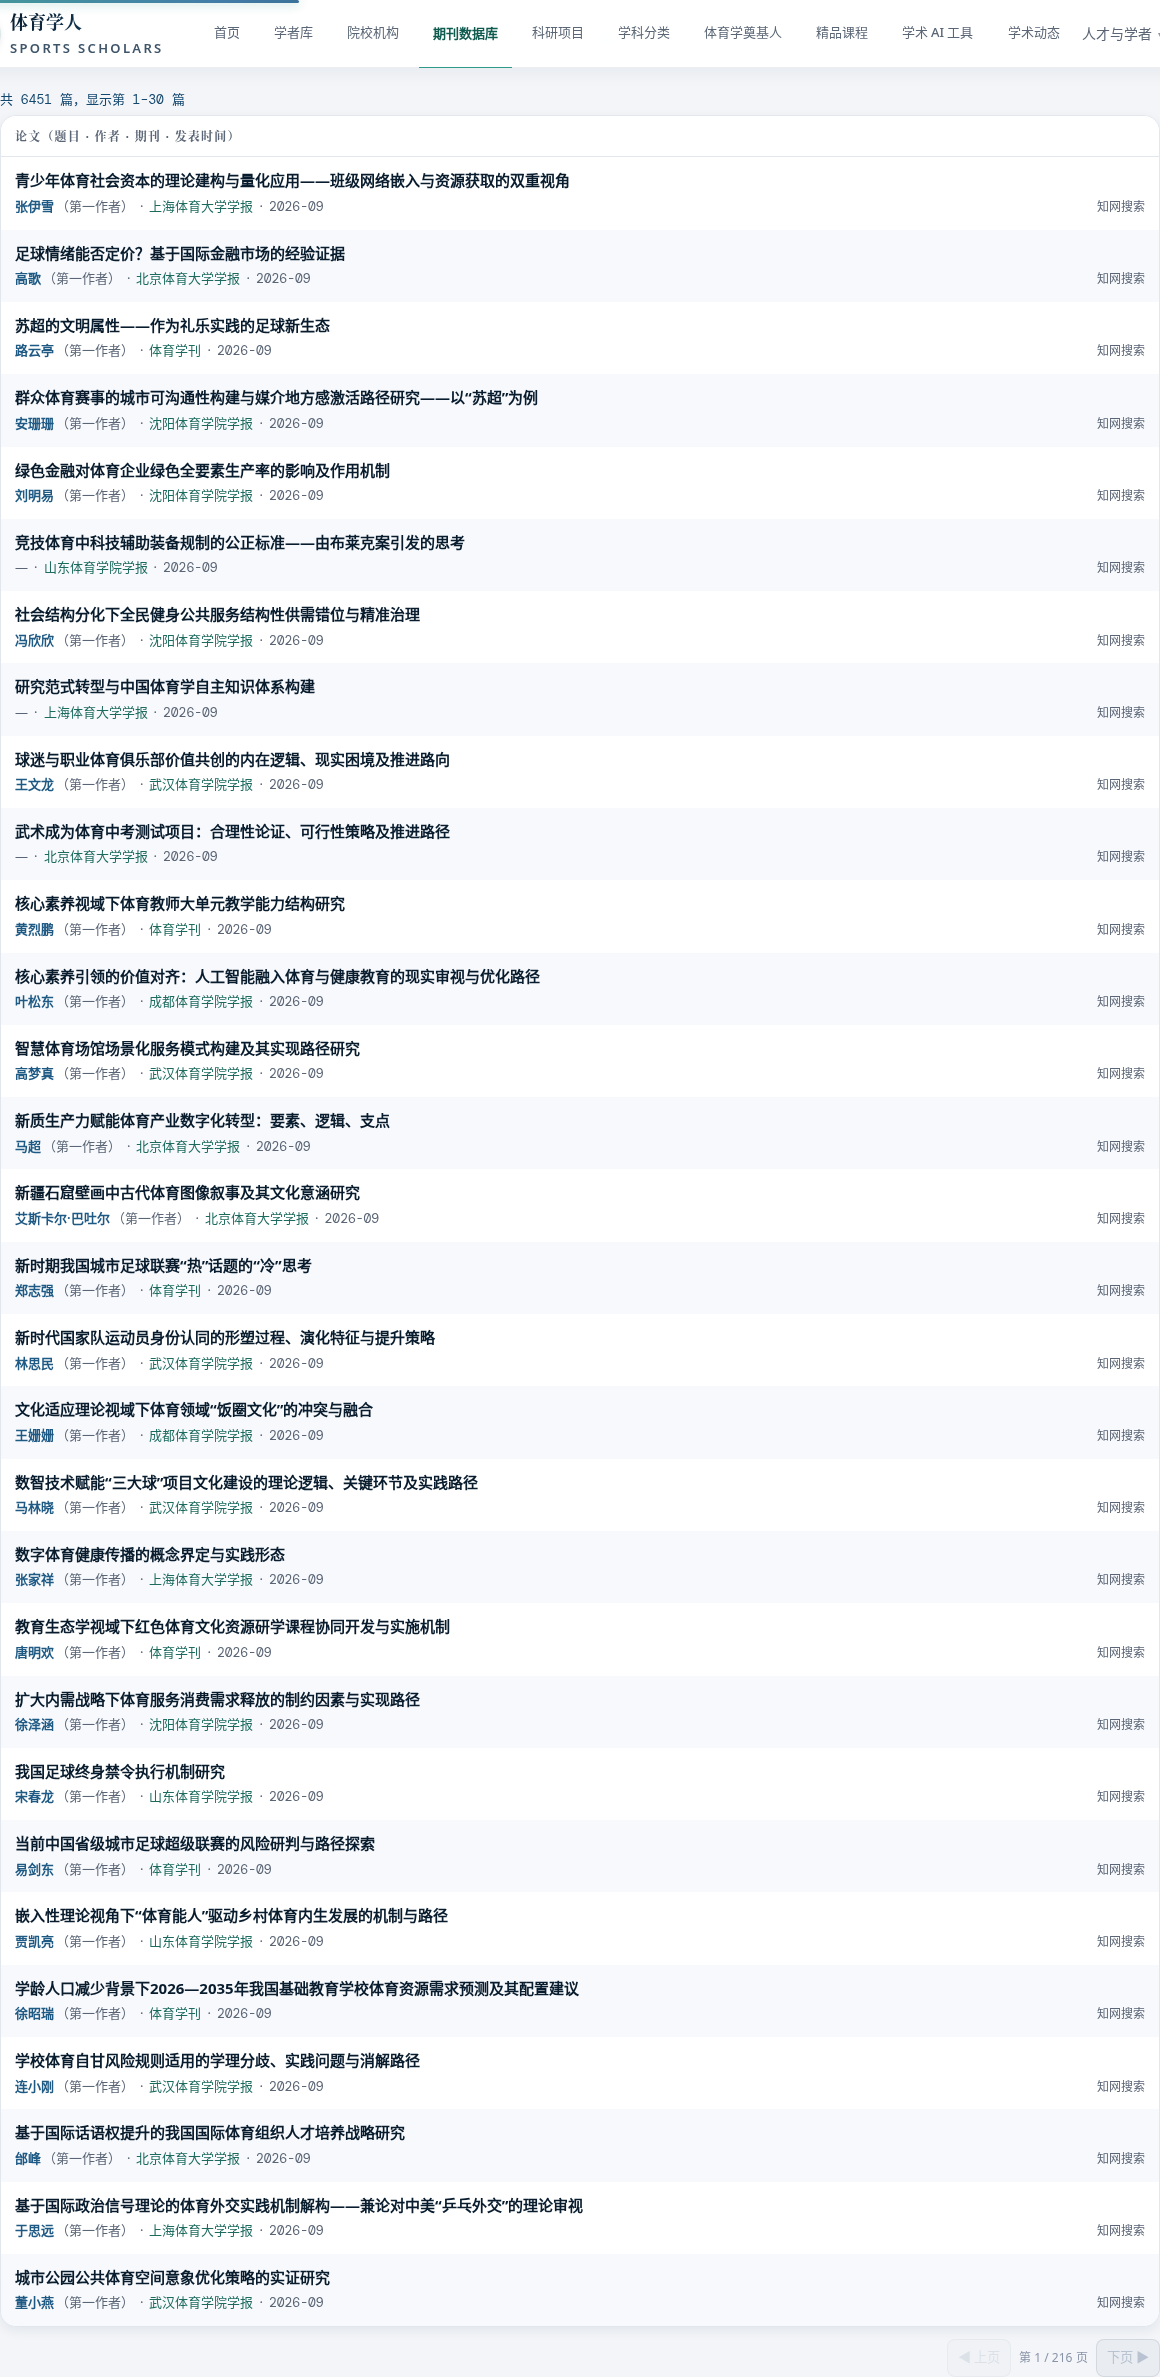
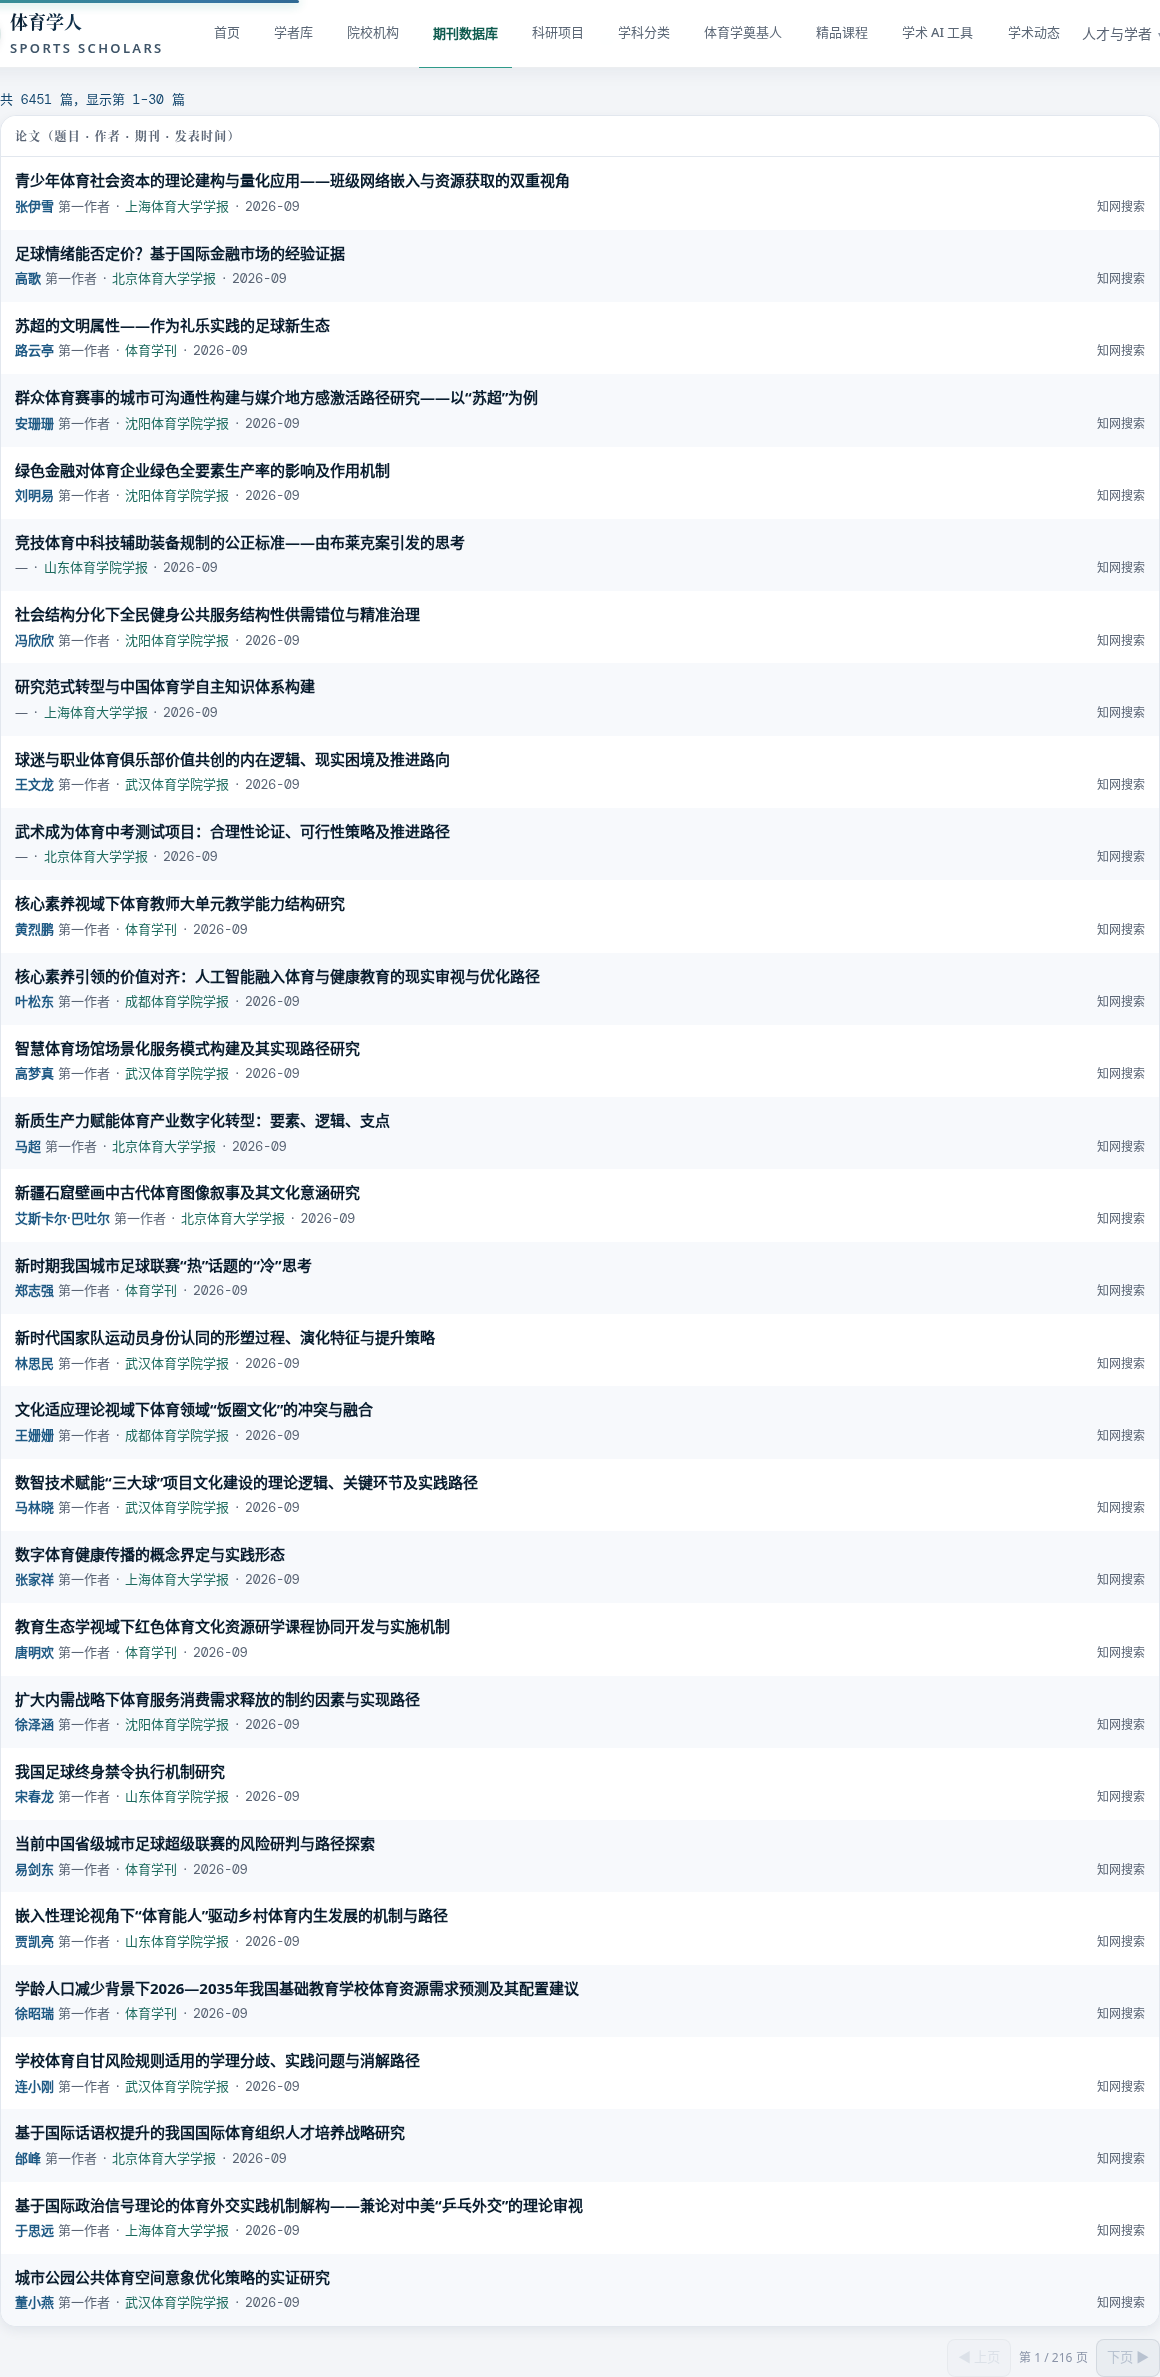
polish(cnki): label 第一作者 without brackets, 4px margin (v4.6-103)

diff --git a/index.html b/index.html
@@ -8289,7 +8289,7 @@ function _cnkiRender(){
     var names=String(p[1]||'').split(/[;；,，、]+/).filter(function(x){return x;});
     var aHtml;
     if(!names.length){aHtml='<span class="cnki-author-empty"><span aria-hidden="true">—</span><span class="sr-only">作者待补</span></span>';}
-    else{aHtml=names.slice(0,3).map(function(n){return'<span class="cnki-author-link" role="button" tabindex="0" data-name="'+_cEsc(n)+'">'+_cEsc(n)+'</span>';}).join('、')+(names.length===1?'<span class="cnki-first-author">（第一作者）</span>':'');}
+    else{aHtml=names.slice(0,3).map(function(n){return'<span class="cnki-author-link" role="button" tabindex="0" data-name="'+_cEsc(n)+'">'+_cEsc(n)+'</span>';}).join('、')+(names.length===1?'<span class="cnki-first-author">第一作者</span>':'');}
     var sHtml='<a class="cnki-search-link" href="https://kns.cnki.net/kns8s/defaultresult/index?kw='+encodeURIComponent(title)+'" target="_blank" rel="noopener" title="在知网按题目搜索">知网搜索</a>';
     var meta='<span class="cnki-meta-authors">'+aHtml+'</span><span class="cnki-dot">·</span><span class="cnki-meta-jnl">'+_cEsc(CNKI_JNL[p[2]]||'')+'</span><span class="cnki-dot">·</span><span class="cnki-meta-date">'+_cEsc(p[3]||'—')+'</span>'+sHtml;
     return'<tr class="cnki-item"><td><div class="cnki-l1">'+tHtml+'</div><div class="cnki-l2">'+meta+'</div></td></tr>';
@@ -17654,7 +17654,7 @@ html h2:where(.cssd-h2v){
 .sr-only{position:absolute!important;width:1px;height:1px;padding:0;margin:-1px;overflow:hidden;clip:rect(0,0,0,0);white-space:nowrap;border:0;}
 @media(max-width:760px){#cnkiTbody .cnki-search-link{margin-left:0;}#jnl-panel-cnki .cnki-table{table-layout:fixed;}}
 /* v4.6-103：第一作者标注 / 手机斑马纹加深 / 深色主题 token（深色 = html 无 .cssd-light） */
-#cnkiTbody .cnki-first-author{margin-left:2px;font-size:inherit;color:var(--cssd-cnki-meta)!important;font-weight:400;}
+#cnkiTbody .cnki-first-author{margin-left:4px;font-size:inherit;color:var(--cssd-cnki-meta)!important;font-weight:400;}
 #cnkiTbody .cnki-author-link:focus-visible{outline:2px solid var(--cssd-link-hover);outline-offset:2px;border-radius:2px;}
 @media(max-width:640px){:root{--cssd-row-alt:#F1F5F9;--cssd-row-hover:#E6EDF6;}}
 html:not(.cssd-light){--cssd-row-alt:rgba(255,255,255,.04);--cssd-row-hover:rgba(255,255,255,.08);--cssd-list-bg:#0F172A;--cssd-cnki-title:#BFD4F2;--cssd-cnki-meta:#94A3B8;--cssd-cnki-author:#8CB8E0;--cssd-cnki-jnl:#6FC7B8;--cssd-link-hover:#5EC4B3;}
